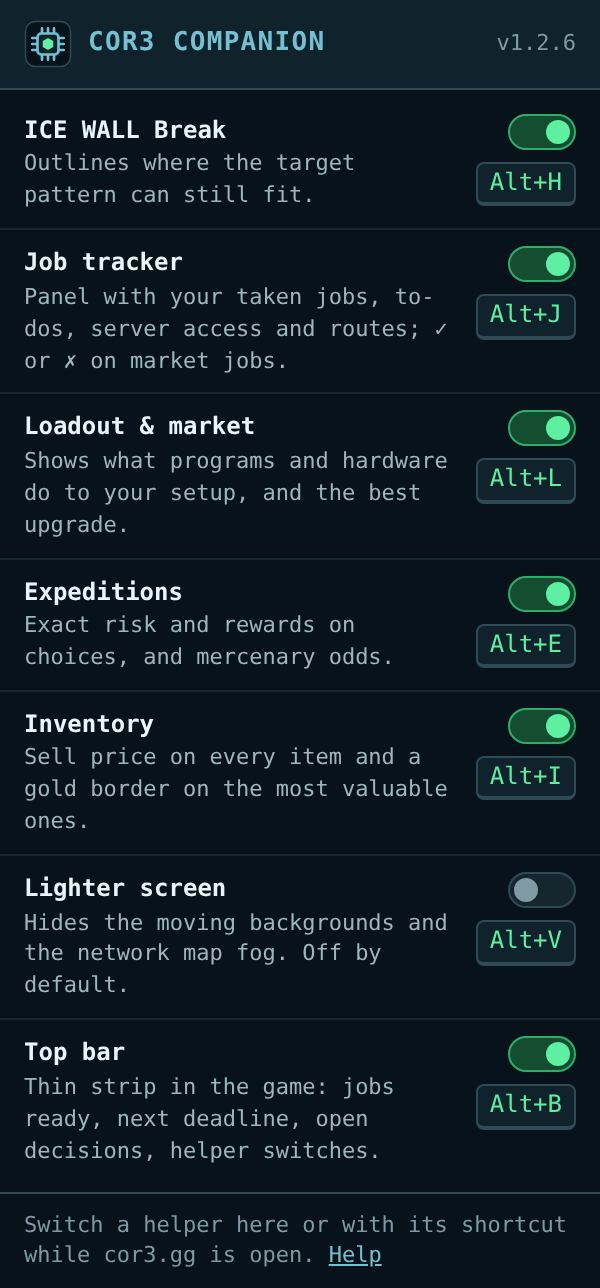
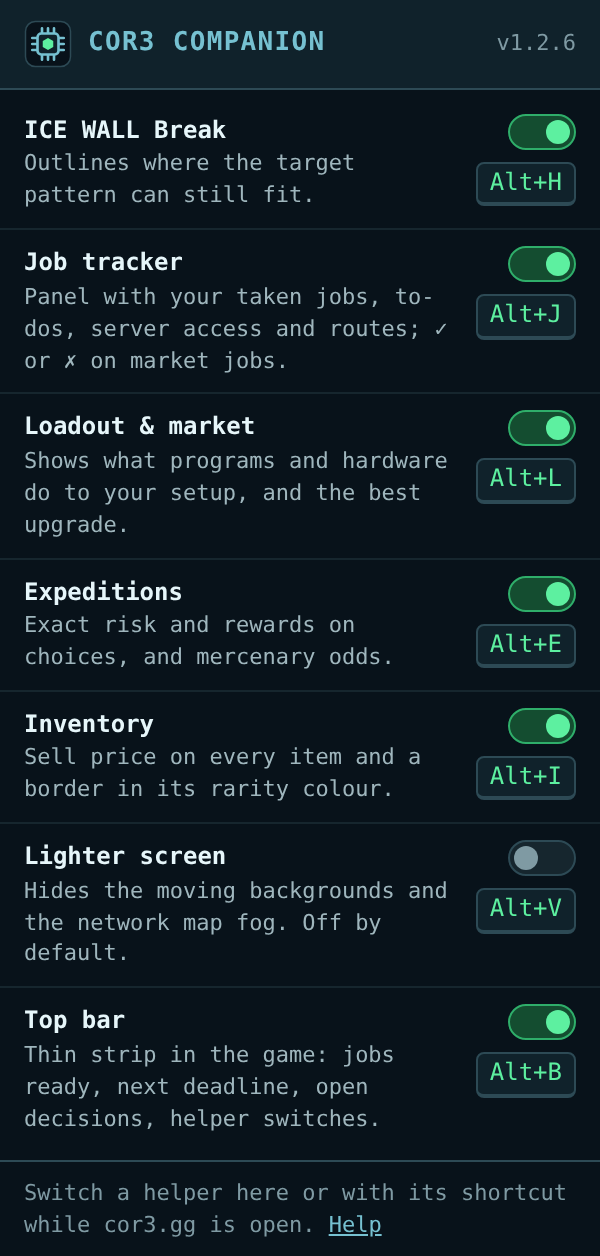
Inventory: border items by rarity instead of top price
Rare, epic, legendary and quest items get a border (and price) in their
rarity colour from the game's tier; common items keep the game's look.

Claude-Session: https://claude.ai/code/session_01YcDZAkyGHnBCa26kWABLui

diff --git a/stash.js b/stash.js
@@ -1,6 +1,6 @@
 // COR3 inventory helper.
-// On the game's inventory page: the sell price on every item, a gold border on
-// the items worth the most, and one line with the stash's total value.
+// On the game's inventory page: the sell price on every item, a border in the
+// item's rarity colour (none for common), and one line with the stash's total value.
 // Uses the stash data the game sends when you open the inventory (through the
 // websocket hook in jobs.js). Alt+I or the toolbar menu toggles it.
 // Reads only; never sends anything.
@@ -8,7 +8,9 @@
   "use strict";
 
   const PRICE_CLASS = "cor3-inv-price", SUM_CLASS = "cor3-inv-sum", TOP_ATTR = "data-cor3-inv-top";
-  const GOLD = "#ffc800";
+  // Border per rarity (the game's `tier`); common items get none.
+  const TIER_COLOR = { rare: "#4da3ff", epic: "#b06cff", legendary: "#ffa040", quest: "#5df0a0" };
+  const tierColor = (it) => TIER_COLOR[String(it.tier || "").toLowerCase()] || null;
 
   // ---------- on/off ----------
   const STORE_KEY = "cor3-inventory-helper";
@@ -85,11 +87,6 @@
     }
     if (!tiles.size) return;
 
-    // The most valuable items: the top tenth by price (at least one, at most 8).
-    const sellable = [...stash.items.values()].filter(price).sort((a, b) => price(b) - price(a));
-    const n = Math.min(8, Math.max(1, Math.round(sellable.length / 10)));
-    const top = new Set(sellable.slice(0, n));
-
     for (const [it, el] of tiles) {
       const p = price(it);
       let tag = el.querySelector(`:scope > .${PRICE_CLASS}`);
@@ -104,11 +101,12 @@
         }
         const text = `${fmt(p)} cr`;
         if (tag.textContent !== text) tag.textContent = text;
-        tag.style.color = top.has(it) ? GOLD : "#cfe7ee";
+        tag.style.color = tierColor(it) || "#cfe7ee";
         tag.title = qty(it) > 1 ? `sells for ${p.toLocaleString()} each, ${(p * qty(it)).toLocaleString()} for all ${qty(it)}` : `sells for ${p.toLocaleString()}`;
       }
-      if (top.has(it)) {
-        if (!el.hasAttribute(TOP_ATTR)) { el.setAttribute(TOP_ATTR, ""); el.style.outline = `2px solid ${GOLD}`; el.style.outlineOffset = "-2px"; }
+      const color = tierColor(it);
+      if (color) {
+        if (el.getAttribute(TOP_ATTR) !== color) { el.setAttribute(TOP_ATTR, color); el.style.outline = `2px solid ${color}`; el.style.outlineOffset = "-2px"; }
       } else if (el.hasAttribute(TOP_ATTR)) { el.removeAttribute(TOP_ATTR); el.style.outline = ""; }
     }
 
@@ -125,8 +123,7 @@
       grid.parentElement.insertBefore(sum, grid);
     }
     const total = [...stash.items.values()].reduce((s, it) => s + price(it) * qty(it), 0);
-    const text = `Stash value ${total.toLocaleString()} cr` + (stash.max ? ` · ${stash.used}/${stash.max} slots` : "") +
-      (top.size ? ` · gold: your ${top.size} most valuable` : "");
+    const text = `Stash value ${total.toLocaleString()} cr` + (stash.max ? ` \u00b7 ${stash.used}/${stash.max} slots` : "");
     if (sum.textContent !== text) sum.textContent = text;
   }
 

diff --git a/popup.html b/popup.html
@@ -52,7 +52,7 @@
     <div class="desc">Exact risk and rewards on choices, and mercenary odds.</div></div>
     <div class="ctl"><button class="sw" role="switch" aria-label="Expeditions"></button><kbd>Alt+E</kbd></div></li>
   <li data-id="inventory"><div class="txt"><div class="name">Inventory</div>
-    <div class="desc">Sell price on every item and a gold border on the most valuable ones.</div></div>
+    <div class="desc">Sell price on every item and a border in its rarity colour.</div></div>
     <div class="ctl"><button class="sw" role="switch" aria-label="Inventory"></button><kbd>Alt+I</kbd></div></li>
   <li data-id="lighter"><div class="txt"><div class="name">Lighter screen</div>
     <div class="desc">Hides the moving backgrounds and the network map fog. Off by default.</div></div>

diff --git a/README.md b/README.md
@@ -13,8 +13,8 @@ Browser extension for cor3.gg:
   score of a mission and the death chance of each mercenary (Alt+E toggles).
 - **[Loadout & market](#loadout--market)**: shows what a program or hardware part would do to your setup, on the
   loadout page and on the market's cards, and stars the best upgrade (Alt+L toggles).
-- **[Inventory](#inventory)**: the sell price on every item in your inventory and a gold border on the most
-  valuable ones (Alt+I toggles).
+- **[Inventory](#inventory)**: the sell price on every item in your inventory and a border in its
+  rarity colour (Alt+I toggles).
 - **[Lighter screen](#lighter-screen)**: hides the moving backgrounds and the network map fog (off by default,
   Alt+V toggles).
 - **[Top bar](#top-bar)**: a thin strip at the top of the game with what needs you now and a menu to switch the
@@ -172,8 +172,9 @@ Click **◆ COR3** to shrink the bar to a single diamond, or press Alt+B to hide
 ## Inventory
 
 When you open your inventory, every item you can sell gets its sell price in its corner, e.g. **12k cr**.
-The most valuable tenth of your items (at least one, at most 8) get a gold border and a gold price, so you
-see at a glance what to keep safe and what to sell. A line above the items shows the total value of your
+Items also get a border in their rarity colour, using the rarity the game gives each item: blue for rare,
+purple for epic, orange for legendary and green for quest items. Common items keep the game's own look.
+The price takes the same colour. A line above the items shows the total value of your
 stash and the slots used, e.g. **Stash value 48,200 cr · 34/40 slots**. Hovering a price on a stack shows
 the value of the whole stack. Alt+I turns it off and on.
 
